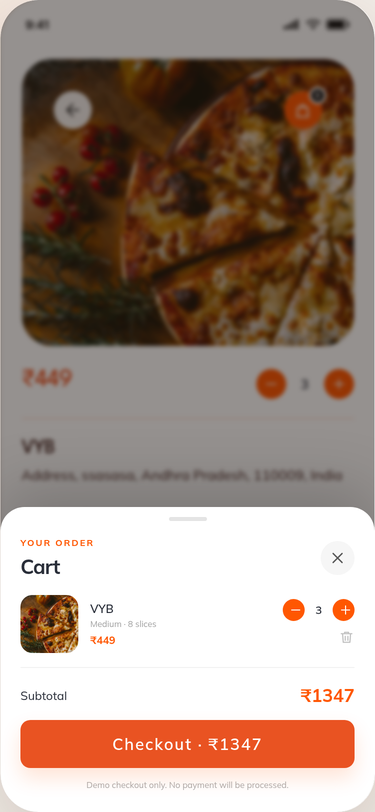
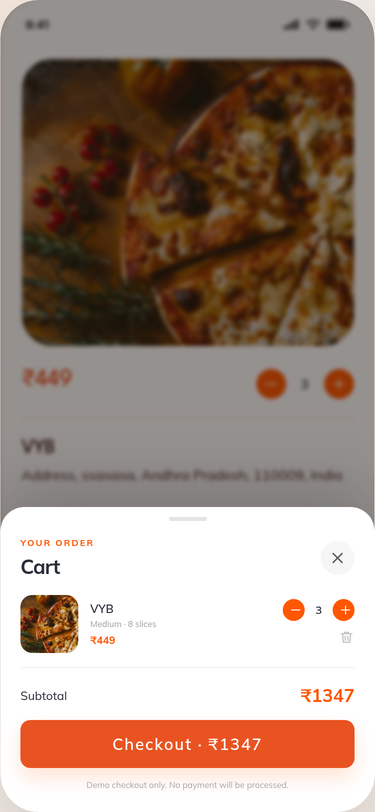
fix: remove non-design detail overlay controls

Changed region(s): [[0.7333, 0.0924, 0.88, 0.1847], [0.1173, 0.0924, 0.264, 0.1847]]

diff --git a/reactjs/src/pages/RestaurantPage.jsx b/reactjs/src/pages/RestaurantPage.jsx
@@ -1,6 +1,6 @@
 import { useState } from 'react';
 import { useNavigate, useParams } from 'react-router-dom';
-import { ArrowLeft, Bag, Minus, Plus } from '../components/Icons.jsx';
+import { ArrowLeft, Minus, Plus } from '../components/Icons.jsx';
 import { SmartImage } from '../components/SmartImage.jsx';
 import { useCart } from '../lib/cart.jsx';
 import { foodImages, formatAddress, restaurantImage } from '../lib/data.js';
@@ -17,7 +17,7 @@ export function RestaurantPage() {
   const { id } = useParams();
   const navigate = useNavigate();
   const { items, loading, error, refresh } = useRestaurants();
-  const { addItem, count, openCart } = useCart();
+  const { addItem } = useCart();
   const [quantity, setQuantity] = useState(3);
   const [portionId, setPortionId] = useState('medium');
 
@@ -79,21 +79,6 @@ export function RestaurantPage() {
           loading="eager"
         />
         <div className="detail-hero-shade" aria-hidden="true" />
-        <button
-          type="button"
-          className="floating-button back"
-          onClick={() => {
-            if (window.history.length > 1) navigate(-1);
-            else navigate('/');
-          }}
-          aria-label="Go back"
-        >
-          <ArrowLeft />
-        </button>
-        <button type="button" className="floating-button cart" onClick={openCart} aria-label="Open cart">
-          <Bag size={19} />
-          {count > 0 && <span className="cart-count">{count}</span>}
-        </button>
       </div>
 
       <div className="detail-content">

diff --git a/reactjs/src/styles.css b/reactjs/src/styles.css
@@ -1214,60 +1214,6 @@ input:focus-visible {
   pointer-events: none;
 }
 
-.floating-button {
-  position: absolute;
-  top: 16px;
-  display: grid;
-  width: 38px;
-  height: 38px;
-  place-items: center;
-  border: 0;
-  border-radius: 50%;
-  cursor: pointer;
-  backdrop-filter: blur(7px);
-}
-
-.floating-button.back {
-  left: 18px;
-  background: rgba(255, 255, 255, 0.93);
-  color: #222;
-}
-
-.floating-button.cart {
-  right: 18px;
-  background: var(--orange);
-  color: #fff;
-  box-shadow: 0 8px 20px rgba(255, 88, 1, 0.3);
-}
-
-.detail-rating {
-  position: absolute;
-  bottom: 16px;
-  left: 18px;
-  display: flex;
-  align-items: center;
-  gap: 4px;
-  padding: 6px 10px;
-  border-radius: 999px;
-  background: rgba(255, 255, 255, 0.94);
-  color: #222;
-  font-size: 9px;
-  font-weight: 600;
-  backdrop-filter: blur(8px);
-}
-
-.detail-rating svg {
-  color: var(--orange);
-}
-
-.detail-rating i {
-  width: 3px;
-  height: 3px;
-  margin: 0 2px;
-  border-radius: 50%;
-  background: #bbb;
-}
-
 .detail-content {
   padding: 22px 22px 120px;
 }
@@ -2222,18 +2168,6 @@ input:focus-visible {
 .detail-hero,
 .detail-hero-shade {
   border-radius: 30px;
-}
-
-.floating-button {
-  top: 32px;
-}
-
-.floating-button.back {
-  left: 32px;
-}
-
-.floating-button.cart {
-  right: 32px;
 }
 
 .detail-content {
